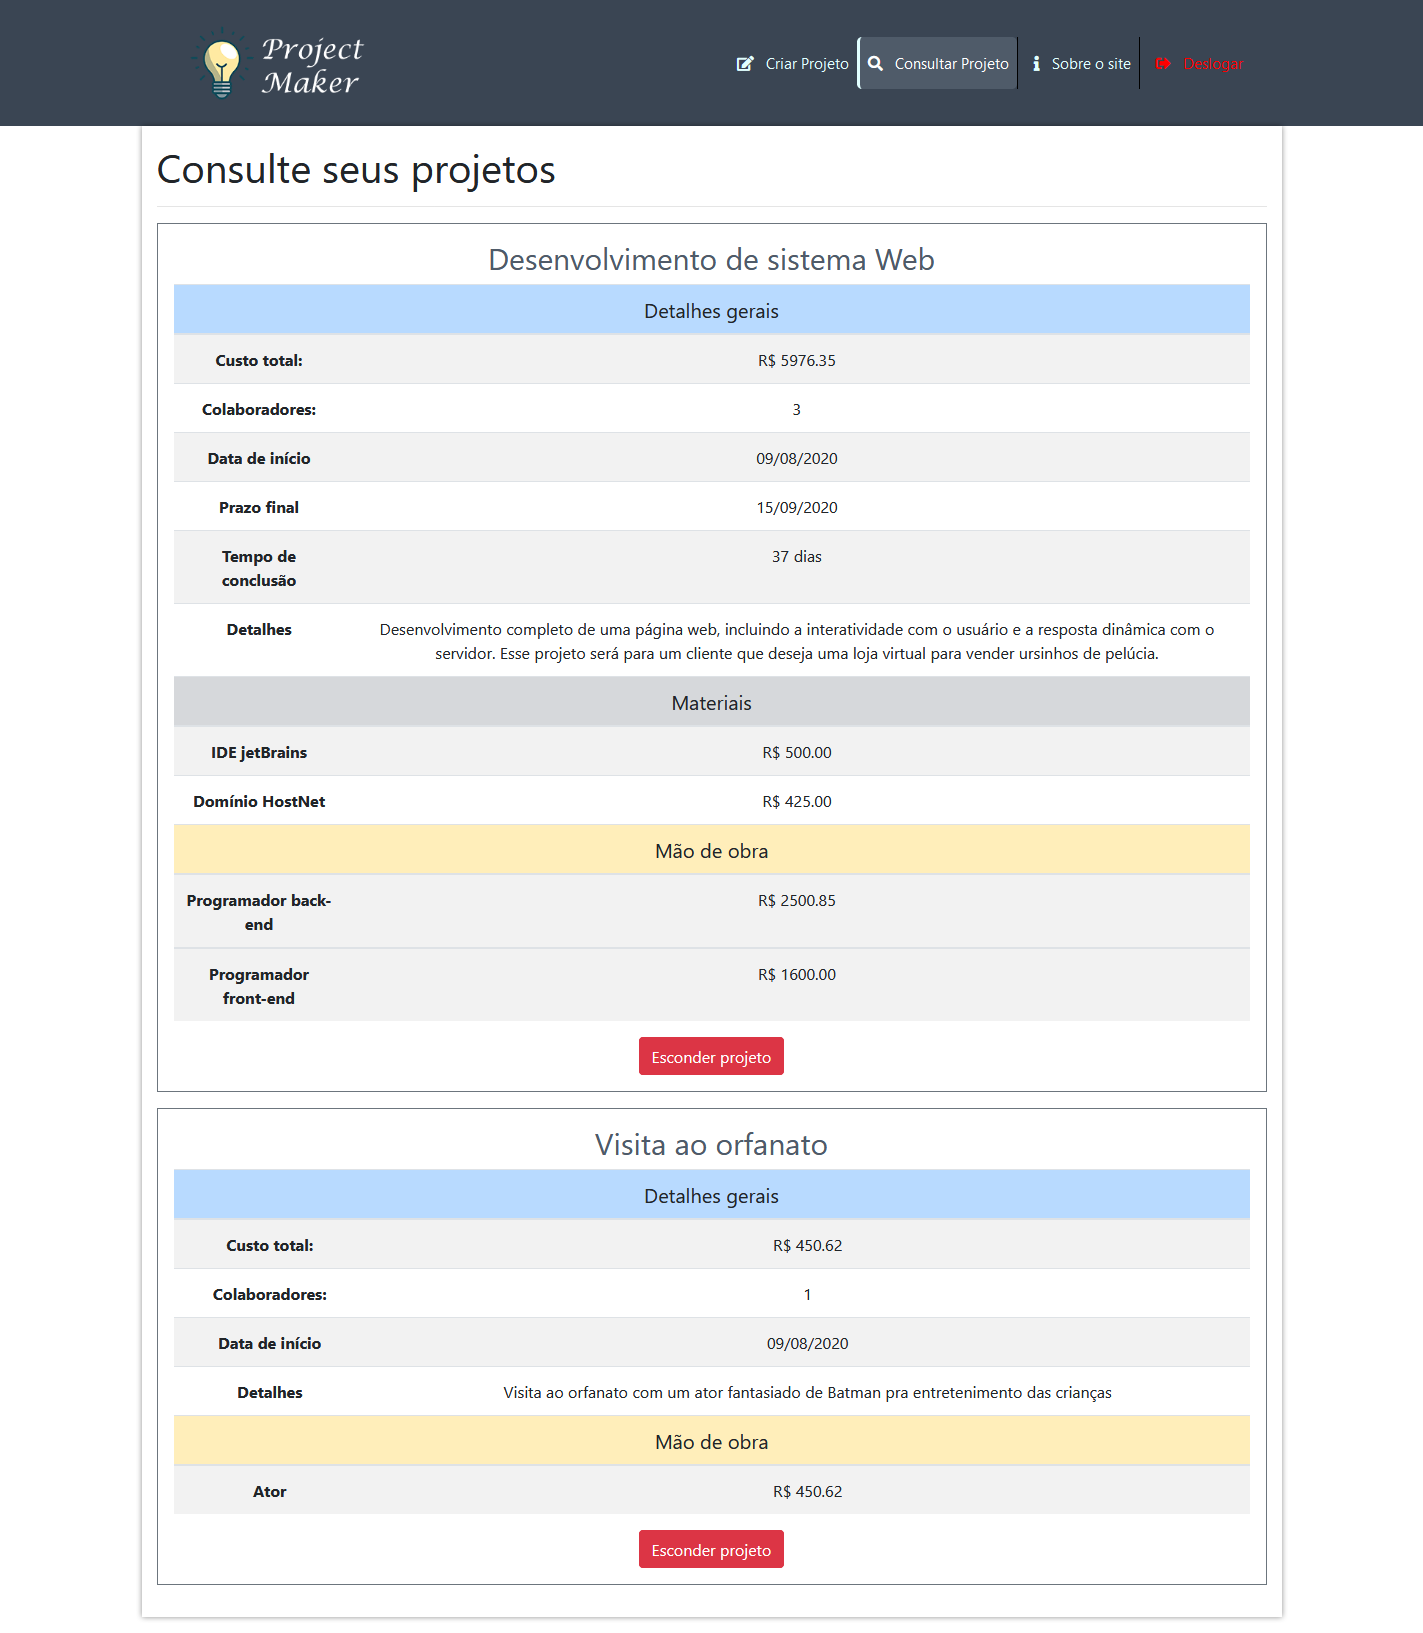
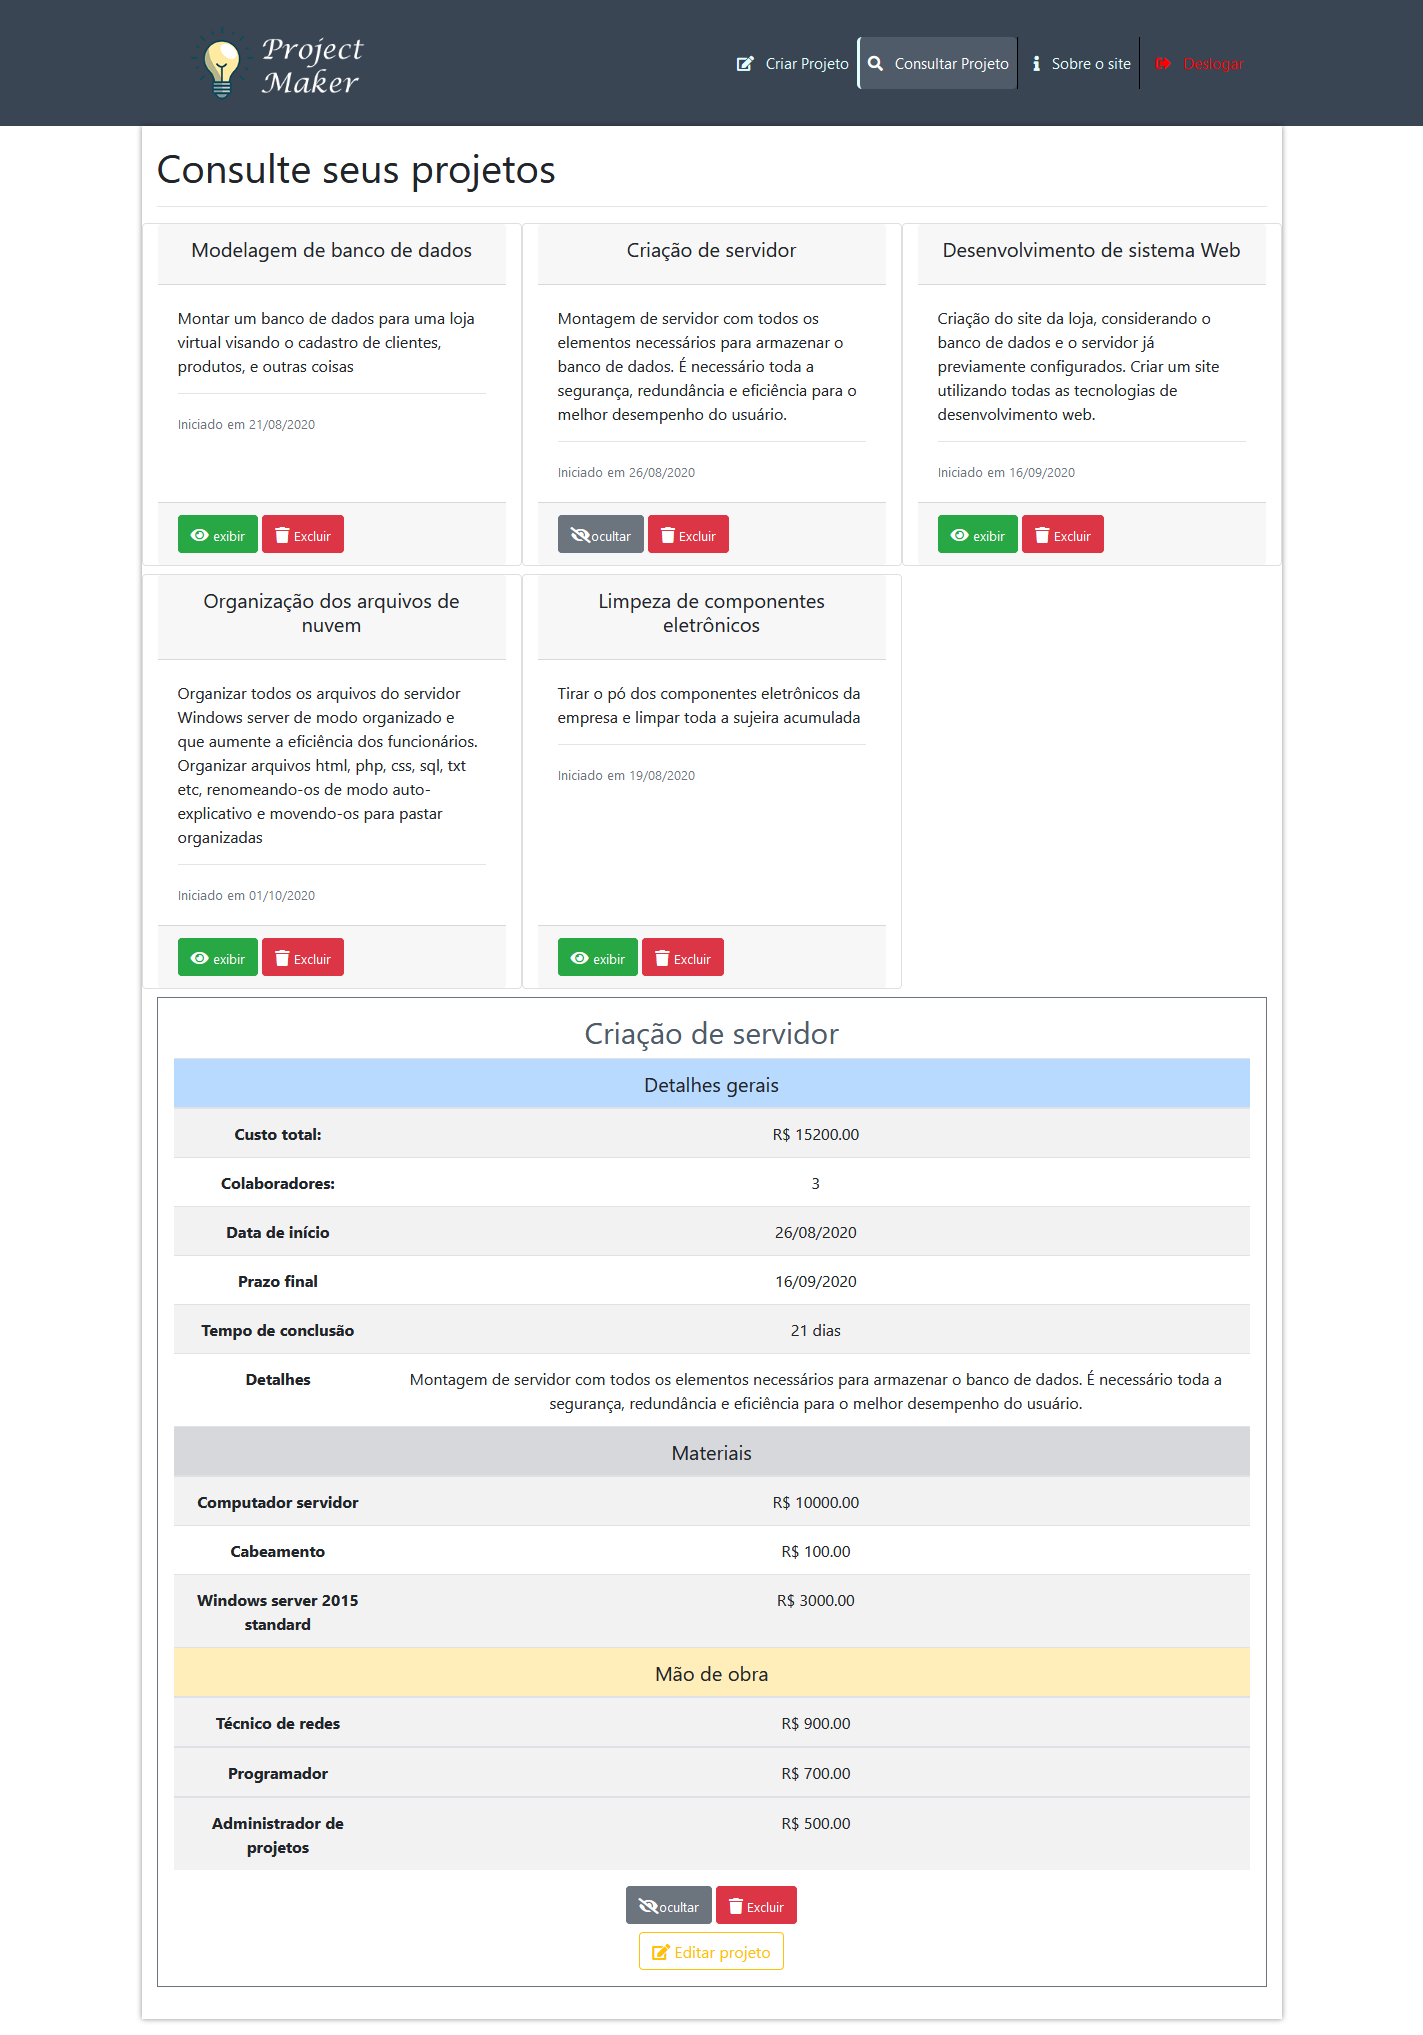
readMe atualizado

Changed region(s): [[0.0, 0.0, 1.0, 0.9994]]

diff --git a/script.js b/script.js
@@ -104,44 +104,37 @@ $(document).ready( () => {
 
 //Exibir um projeto
 function exibeProjeto(indice){
-    //trocando a classe d-none da div da tabela
-    $(`#tabela-${indice}`).removeClass('d-none')
+    //escondendo um projeto caso esteja exibindo
+    $('.projeto').addClass('d-none')
+    $('.exibir').removeClass('d-none')
+    $('.esconder').addClass('d-none')
 
-    //Escondendo botão de exibir projeto
-    $(`#exibir-projeto-${indice}`).removeClass('d-inline').addClass('d-none')
+    //trocando a classe d-none da div do projeto
+    $(`#projeto-${indice}`).removeClass('d-none')
 
-    //exibindo botão de esconder projeto
-    $(`#esconder-projeto-${indice}`).removeClass('d-none').addClass('d-inline')
+    //trocando o botão de exibir pelo de ocultar no card
+    $(`#exibir-projeto-${indice}`).addClass('d-none')
+    $(`#esconder-projeto-${indice}`).removeClass('d-none')
 
-    //exibir botão de excluir projeto
-    $(`#excluir-projeto-${indice}`).removeClass('d-none').addClass('d-inline')
-
-    //exibir botão de editar
-    $(`#editar-projeto-${indice}`).removeClass('d-none').addClass('d-inline')
-
-    //mostrar quebra de linha
-    $(`#separaBotoes-${indice}`).removeClass('d-none')
+    //scrollando para baixo
+    $('html, body').animate({
+        scrollTop: $(`#projeto-${indice}`).offset().top
+    }, 'slow');
 }
 
 //esconder um projeto
 function escondeProjeto(indice){
-    //adicionando de volta a classe d-none para tabela
-    $(`#tabela-${indice}`).addClass('d-none')
+    //adicionando de volta a classe d-none para o projeto
+    $(`#projeto-${indice}`).addClass('d-none')
 
-    //Escondendo botão de esconder projeto
-    $(`#esconder-projeto-${indice}`).removeClass('d-inline').addClass('d-none')
+    //scrollando para cima
+    $('html, body').animate({
+        scrollTop: $('nav').offset().top
+    }, 'slow');
 
-    //exibindo botão de exibir projeto
-    $(`#exibir-projeto-${indice}`).removeClass('d-none').addClass('d-inline')
-
-    //Escondendo botão de excluir projeto
-    $(`#excluir-projeto-${indice}`).removeClass('d-inline').addClass('d-none')
-
-    //Escondendo botão de editar projeto
-    $(`#editar-projeto-${indice}`).removeClass('d-inline').addClass('d-none')
-
-    //mostrar quebra de linha
-    $(`#separaBotoes-${indice}`).addClass('d-none')
+    //trocando o botão de exibir pelo de ocultar no card
+    $(`#exibir-projeto-${indice}`).removeClass('d-none')
+    $(`#esconder-projeto-${indice}`).addClass('d-none')
 }
 
 function validaData(update = false, _dataInicio, _dataFim) {

diff --git a/consultar.php b/consultar.php
@@ -14,9 +14,7 @@ $lista_informacoes = $bd->selectProjeto_informacoes();
     <link rel="icon" type="img/png" href="imagens/logo_icon.png">
 
     <!-- jQuery -->
-    <script src="https://cdnjs.cloudflare.com/ajax/libs/jquery/3.5.1/jquery.slim.min.js"
-            integrity="sha512-/DXTXr6nQodMUiq+IUJYCt2PPOUjrHJ9wFrqpJ3XkgPNOZVfMok7cRw6CSxyCQxXn6ozlESsSh1/sMCTF1rL/g=="
-            crossorigin="anonymous"></script>
+    <script src="https://cdnjs.cloudflare.com/ajax/libs/jquery/3.5.1/jquery.min.js" integrity="sha512-bLT0Qm9VnAYZDflyKcBaQ2gg0hSYNQrJ8RilYldYQ1FxQYoCLtUjuuRuZo+fjqhx/qtq/1itJ0C2ejDxltZVFg==" crossorigin="anonymous"></script>
     <script src="https://cdnjs.cloudflare.com/ajax/libs/jquery.mask/1.14.16/jquery.mask.min.js"
             integrity="sha512-pHVGpX7F/27yZ0ISY+VVjyULApbDlD0/X0rgGbTqCE7WFW5MezNTWG/dnhtbBuICzsd0WQPgpE4REBLv+UqChw=="
             crossorigin="anonymous"></script>
@@ -120,6 +118,39 @@ $lista_informacoes = $bd->selectProjeto_informacoes();
         </div>
     <? } ?>
 
+    <!-- Exibir apenas card do projeto -->
+    <div class="row row-cols-1 row-cols-sm-2 row-cols-md-3">
+        <?
+        foreach ($lista_informacoes as $i => $li) {
+            ?>
+            <div class="card col mb-2">
+                <div class="card-header">
+                    <h5 class="card-title text-center"> <?=$li->nome?> </h5>
+                </div>
+
+                <div class="card-body">
+                    <p class="card-text">
+                        <?=$li->detalhes?>
+                    </p>
+                    <hr>
+                    <p class="card-text">
+                        <? $arrDataInicio = explode('-', $li->data_inicio); ?>
+                        <small class="text-muted">Iniciado em <?= $arrDataInicio[2] . '/' . $arrDataInicio[1] . '/' . $arrDataInicio[0] ?> </small>
+                    </p>
+                </div>
+
+                <div class="card-footer">
+                    <button type="button" class="btn btn-secondary d-none esconder" id="esconder-projeto-<?= $li->id_projeto ?>" onclick="escondeProjeto(<?= $li->id_projeto ?>)"><i class="fas fa-eye-slash"></i><small>ocultar</small></button>
+                    <button type="button" class="btn btn-success exibir" id="exibir-projeto-<?= $li->id_projeto ?>" onclick="exibeProjeto(<?= $li->id_projeto ?>)"><i class="fas fa-eye"></i> <small>exibir</small></button>
+                    <button type="button" class="btn btn-danger" id="excluir-projeto-<?= $li->id_projeto ?>" onclick="excluiProjeto( <?= $li->id_projeto ?> , '<?= $li->nome ?>' )"> <i class="fas fa-trash"></i> <small>Excluir</small> </button>
+                </div>
+
+
+            </div>
+        <?}?>
+    </div>
+
+    <!-- Exibir projeto completo -->
     <?
     foreach ($lista_informacoes as $i => $li) {
         $lista_materiais = $bd->selectProjeto_materiais($li->id_projeto);
@@ -127,7 +158,7 @@ $lista_informacoes = $bd->selectProjeto_informacoes();
         ?>
         <form method="post" action="logica/dados_criar_instancias.php?acao=atualizar" id="form-editar-<?=$li->id_projeto?>">
 
-            <div id="projeto-1" class="border border-secondary p-3 mb-3 text-center">
+            <div id="projeto-<?=$li->id_projeto?>" class="border border-secondary p-3 mb-3 text-center projeto d-none">
                 <h2 class="titulo-projeto editavel-<?= $li->id_projeto ?> input-text"
                     id="nome-proj-<?= $li->id_projeto ?>"
                     data-name="informacoes_gerais[nome-<?=$li->id_projeto?>]"
@@ -135,7 +166,7 @@ $lista_informacoes = $bd->selectProjeto_informacoes();
                     <?= $li->nome ?>
                 </h2>
 
-                <div class="table-responsive d-none" id="tabela-<?= $li->id_projeto ?>">
+                <div class="table-responsive" id="tabela-<?= $li->id_projeto ?>">
                     <table class="table table-striped table-hover">
 
                         <!-- Detalhes gerais -->
@@ -258,13 +289,12 @@ $lista_informacoes = $bd->selectProjeto_informacoes();
                     </table>
                 </div>
 
-                <button type="button" class="btn btn-success d-inline" id="exibir-projeto-<?= $li->id_projeto ?>" onclick="exibeProjeto(<?= $li->id_projeto ?>)"><i class="fas fa-eye"></i> <small>exibir</small></button>
-                <button type="button" class="btn btn-secondary d-none mb-2" id="esconder-projeto-<?= $li->id_projeto ?>" onclick="escondeProjeto(<?= $li->id_projeto ?>)"><i class="fas fa-eye-slash"></i><small>ocultar</small></button>
-                <button type="button" class="btn btn-danger d-none mb-2" id="excluir-projeto-<?= $li->id_projeto ?>" onclick="excluiProjeto( <?= $li->id_projeto ?> , '<?= $li->nome ?>' )"> <i class="fas fa-trash"></i> <small>Excluir</small> </button>
+                <button type="button" class="btn btn-secondary mb-2" id="esconder-projeto-<?= $li->id_projeto ?>" onclick="escondeProjeto(<?= $li->id_projeto ?>)"><i class="fas fa-eye-slash"></i><small>ocultar</small></button>
+                <button type="button" class="btn btn-danger mb-2" id="excluir-projeto-<?= $li->id_projeto ?>" onclick="excluiProjeto( <?= $li->id_projeto ?> , '<?= $li->nome ?>' )"> <i class="fas fa-trash"></i> <small>Excluir</small> </button>
 
-                <br id="separaBotoes-<?= $li->id_projeto ?>" class="d-none">
+                <br>
 
-                <button type="button" class="btn btn-outline-warning d-none" onclick="editionStart(<?= $li->id_projeto ?>)" id="editar-projeto-<?= $li->id_projeto ?>"><i class="fas fa-edit"></i> Editar projeto</button>
+                <button type="button" class="btn btn-outline-warning" onclick="editionStart(<?= $li->id_projeto ?>)" id="editar-projeto-<?= $li->id_projeto ?>"><i class="fas fa-edit"></i> Editar projeto</button>
                 <button type="button" class="btn btn-success d-none" onclick="verificar_enviar_mudancas(<?= $li->id_projeto ?>)" id="salvar-edicao-<?= $li->id_projeto ?>"><i class="fas fa-check"></i> Salvar mudanças</button>
                 <button type="button" class="btn btn-danger d-none" onclick="location.reload()" id="cancelar-edicao-<?= $li->id_projeto ?>"><i class="fas fa-times"></i> Cancelar</button>
                 <br>

diff --git a/readme.md b/readme.md
@@ -15,16 +15,21 @@ Esse projeto foi criado com o intuito de minha aprendizagem sobre as tecnologias
     - [fontAwesome](https://fontawesome.com/)
 
 ## Sobre o site
-O propósito do site é permitir o usuário organizar seus projetos de vida com informações completas de modo que depois ele possa voltar no site para consultar seus projetos criados de modo organizado, bonito e bem estruturado. As informações básicas de funcionamento e criação do projeto estão nessa página:
+O propósito do site é permitir o usuário organizar seus projetos de vida com informações completas de modo que depois ele possa voltar no site para consultar seus projetos criados de modo organizado, elegante e bem estruturado. As informações básicas de funcionamento e criação do projeto estão nessa página:
 ![informações do site](imagens/github/info.png)
 
 O site conta com o armazenamento dos projetos de forma persistente no banco de dados, de modo que o usuário possa consultar seus projeto em qualquer dispositivo (suporte visual para dispositivos de todos os tamanhos), desde que ele entre com sua conta ~~Isso caso eu pague um domínio para o site.~~
+A visualização dos projetos inicialmente é simplificada, mostrando apenas as informações principais, porém é possível expandir esse projeto clicando no botão "_exibir_" mostrando assim as informações completas
+É possível excluir e editar o projeto facilmente, clicando nos respectivos botões.
 
 ![Exemplo de projetos criados](imagens/github/consulta_escondida.png)
 ![Exemplo de projeto individual](imagens/github/consulta.png)
 
-Para isso a aplicação conta com um sistema de login, totalmente integrado com o banco de dados. ~~Ainda falta a opção de criar conta~~
+Para isso a aplicação conta com um sistema de login, totalmente integrado com o banco de dados, contando com um sistema de **session** e armazenamento em **cookies** caso o usuário marque o "_mater-me conectado_".
 ![Tela de login](imagens/github/login.png)
+
+Também é possível cadastrar uma nova conta para o site facilmente, infelizmente não há a confirmação de e-mail para cadastro
+![Tela de cadastro](imagens/github/cadastro.png)
 
 Para criação do projeto há um formulário que o usuário preenche com as informações que ele acha relevantes. Alguns campos são obrigatórios e outros opcionais. O formulário tem toda a validação necessária para o usuário não colocar nenhuma informação errada.
 ![preenchimento do formulário com informações erradas](imagens/github/formulario_errado.png)
